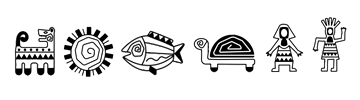
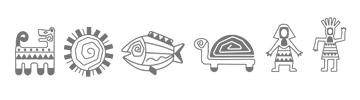
separadores con fondo

Changed region(s): [[0.0306, 0.27, 0.7333, 0.78], [0.7333, 0.18, 0.9778, 0.72]]

diff --git a/src/app/pages/about-us/about-us.component.html b/src/app/pages/about-us/about-us.component.html
@@ -70,7 +70,7 @@
 </div>
 
 <div class="part-sections">
-  <img src="/assets/images/separator-nazca1.png" alt="Separador" class="separator-img desktop">
+  <img src="/assets/images/nazca-opacidad.png" alt="Separador" class="separator-img desktop">
   <img src="/assets/images/nazca-mobile.png" alt="Separador Mobile" class="separator-img mobile">
 </div>
 
@@ -87,7 +87,7 @@
   <app-gallery></app-gallery>
 </div>
 <div class="part-sections">
-  <img src="/assets/images/separador-i.png" alt="Separador" class="separator-img desktop">
+  <img src="/assets/images/separador-inkas1.png" alt="Separador" class="separator-img desktop">
   <img src="/assets/images/separador inkas-mobile.png" alt="Separador Mobile" class="separator-img mobile">
 </div>
 

diff --git a/src/app/pages/about-us/about-us.component.scss b/src/app/pages/about-us/about-us.component.scss
@@ -604,7 +604,7 @@ body {
   width: 100%;
   max-width: 100%;
   margin: 3% auto;
-  opacity: 0.6;
+  background-color: #dff0fb;
 
   .separator-img {
     width: 100%;
